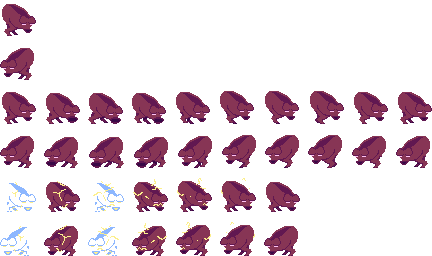
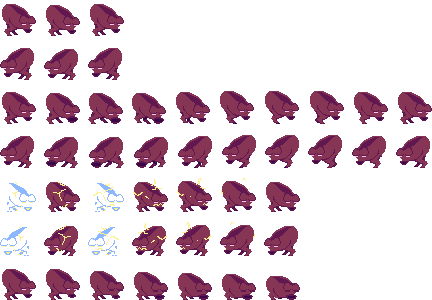
Kill Enemies, Dead state for Tommy, Redid Boost Blast Art

diff --git a/slime.js b/slime.js
@@ -32,7 +32,6 @@ class Slime extends AnimatedEntity {
         this.xDirection = 1;
         this.yVelocity = 1 / PARAMS.SCALE;
         this.maxYVelocity = 6;
-        this.boostSpeed = -6;
         this.boostTimeout = 0.15;
         this.dashSpeed = 5;
         this.dashTimeout = 0.2;
@@ -57,6 +56,8 @@ class Slime extends AnimatedEntity {
         // Powers
         // this.dashbeam = new Ornament("./assets/graphics/characters/dashbeam", "Invisible", this.x + 5 * PARAMS.SCALE, this.y, false);
         this.boostBlast = new Ornament("./assets/graphics/characters/boost", "Invisible", this.x, this.y, false);
+        this.boostBlast.hitbox = new HitBox(-10000, -10000, 2*PARAMS.SCALE, 18*PARAMS.SCALE, 12*PARAMS.SCALE, 35*PARAMS.SCALE);
+
         this.indicatorElectric = new Ornament("./assets/graphics/characters/indicator", "Electric", this.x, this.y, true);
         this.indicatorFire = new Ornament("./assets/graphics/characters/indicator", "Fire", this.x, this.y, true);
         this.indicatorIce = new Ornament("./assets/graphics/item/charge", "Ice", this.x, this.y, true);
@@ -174,7 +175,7 @@ class Slime extends AnimatedEntity {
             if (entity.collideWithPlayer) {
                 let direction = entity.collideWithPlayer();
                 if (!direction) return;
-                this.tileCollisions.push(direction)
+                this.tileCollisions.push(direction);
             }
         });
     }
@@ -504,21 +505,24 @@ class Slime extends AnimatedEntity {
             this.canBoost = false;
             this.canJump = false;
             this.boostBlast.x = this.x;
-            this.boostBlast.y = this.hitbox.bottom;
+            this.boostBlast.y = this.hitbox.bottom - PARAMS.SCALE * 18;
+            this.boostBlast.hitbox.updatePos(this.boostBlast.x, this.boostBlast.y)
             this.xDirection > 0 ? this.boostBlast.swapTag("Default", false) : this.boostBlast.swapTag("DefaultLeft", false);
-            // this.isInvincible = true;
+            this.boostBlast.hitbox.getCollisions().filter(entity => { 
+                return GAME.killableEntities.includes(entity.constructor.name) 
+            }).forEach(killableEntity => {killableEntity.kill()});
         };
         this.states.boosting.behavior = () =>{
             this.xDirection > 0 ? this.tag = "JumpingAir" : this.tag = "JumpingAirLeft";
             this.controlX();
             this.moveY();
-            this.boostBlast.x = this.x;
-            this.boostBlast.y = this.hitbox.bottom; - 2 * PARAMS.SCALE;
+            // this.boostBlast.x = this.x;
+            // this.boostBlast.y = this.hitbox.bottom; - 2 * PARAMS.SCALE;
             if (!CONTROLLER.X && this.charges["Electric"] >= 1) this.canDash = true;
         };
         this.states.boosting.end = () =>{
             this.yVelocity = 0;
-            this.boostBlast.swapTag("Invisible", false);
+            // this.boostBlast.swapTag("Invisible", false);
         };
         this.states.boosting.setTransitions([
             {state: this.states.dashing, predicate: () => { return CONTROLLER.X && this.canDash }},

diff --git a/tabemasu.js b/tabemasu.js
@@ -44,7 +44,7 @@ class Tabemasu extends AnimatedEntity {
      * Function called on every clock tick.
      */
     update() {
-        if (!this.isInFrame(36*PARAMS.SCALE, 36*PARAMS.SCALE) && this.currentState != this.states.stunned) {
+        if (!this.isAlive || (!this.isInFrame(72*PARAMS.SCALE, 36*PARAMS.SCALE) && this.currentState != this.states.stunned)) {
             return;
         }
 
@@ -140,7 +140,7 @@ class Tabemasu extends AnimatedEntity {
      * to spawn and {@link GAME.slime.kill()} the slime
      */
     collideWithPlayer() {
-        if (this.currentState == this.states.stunned) return;
+        if (this.currentState == this.states.stunned || this.currentState == this.states.dead) return;
         if (GAME.slime.isInvincible){
             this.changeState(this.states.stunned);
         } else GAME.slime.kill();
@@ -161,7 +161,7 @@ class Tabemasu extends AnimatedEntity {
      * Kills this entity
      */
     kill() {
-        this.isAlive = false;
+        if (this.currentState == this.states.stunned) super.kill();
     }
 
     ///////////////////
@@ -178,6 +178,7 @@ class Tabemasu extends AnimatedEntity {
             searching: new State("Searching"),
             roaming: new State("Roaming"),
             hunting: new State("Hunting"),
+            dead: new State("Dead"),
         };
 
         // IDLE //
@@ -332,5 +333,10 @@ class Tabemasu extends AnimatedEntity {
             }},
             {state: this.states.falling, predicate: () => { return this.yVelocity > 1 * PARAMS.SCALE }},
         ]);
+        
+        // DEAD //
+        this.states.dead.start = () => {
+            this.swapTag("Dead", false);
+        };
     }
 }

diff --git a/scenemanager.js b/scenemanager.js
@@ -73,7 +73,10 @@ class SceneManager {
             if (this.elapsedFreezeTime >= this.freezeTimer) this.unfreeze();
         } else {
             this.x = Math.round(lerp(this.x, GAME.slime.x + GAME.slime.hitbox.width / 2 - PARAMS.WIDTH/2 + PARAMS.SCALE*56*GAME.slime.momentum, GAME.tickMod/15));
-            this.y = Math.round(lerp(this.y, GAME.slime.y - PARAMS.HEIGHT/2 - 16*PARAMS.SCALE - Math.min(0,PARAMS.SCALE*24*-GAME.slime.yVelocity), GAME.tickMod/15));
+            this.y = GAME.slime.yVelocity < 0 ? 
+                Math.round(lerp(this.y, GAME.slime.y - PARAMS.HEIGHT/2 - 4*PARAMS.SCALE, GAME.tickMod/15)) :
+                Math.round(lerp(this.y, GAME.slime.y - PARAMS.HEIGHT/2 - 16*PARAMS.SCALE - PARAMS.SCALE*24*-GAME.slime.yVelocity, GAME.tickMod/15));
+            // this.y = Math.round(lerp(this.y, GAME.slime.y - PARAMS.HEIGHT/2 - 16*PARAMS.SCALE - Math.min(0,PARAMS.SCALE*24*-GAME.slime.yVelocity), GAME.tickMod/15));
         }
         this.deathScreen.x = this.x - 3*PARAMS.SCALE;
         this.deathScreen.y = this.y - 3*PARAMS.SCALE;
@@ -104,6 +107,7 @@ class SceneManager {
         if (PARAMS.DEBUG) {
             ctx.strokeRect(0,0,PARAMS.WIDTH/2,PARAMS.HEIGHT/2)
             ctx.fillText("CAM: x=" + this.x + " y=" + this.y, 10, 30);
+            ctx.fillText("GAMEPAD BTNS PRESSED: " + GAME.gamepad.buttons.forEach((button, index) => { if (button.pressed) return index}), 10, PARAMS.HEIGHT - 20);
         }
     }
 

diff --git a/batterflea.js b/batterflea.js
@@ -40,7 +40,7 @@ class Batterflea extends AnimatedEntity {
      * Function called on every clock tick.
      */
     update() {
-        // if (!this.isInFrame()) return;
+        if (!this.isInFrame()) return;
         this.hop();
         this.moveY();
 
@@ -62,7 +62,9 @@ class Batterflea extends AnimatedEntity {
      * to spawn and {@link GAME.slime.kill()} the slime
      */
     collideWithPlayer() {
-        if (GAME.slime.isAlive) GAME.slime.kill();
+        if (GAME.slime.isInvincible){
+            this.kill();
+        } else if (GAME.slime.isAlive) GAME.slime.kill();
     }
 
     /**
@@ -109,13 +111,6 @@ class Batterflea extends AnimatedEntity {
             let hangtime = this.rise > 0 ? 0.7 : 1;
             this.rise -= this.gravity * GAME.tickMod * hangtime;
         }
-    }
-
-    /**
-     * Kills this entity
-     */
-    kill() {
-        this.isAlive = false;
     }
 
     /**

diff --git a/animatedentity.js b/animatedentity.js
@@ -64,6 +64,7 @@ class AnimatedEntity {
         this.x = this.spawnX;
         this.y = this.spawnY;
         if (this.hitbox) this.hitbox.updatePos(this.x, this.y);
+        this.isAlive = true;
     }
 
     deccelerate(){
@@ -127,5 +128,10 @@ class AnimatedEntity {
         const h = height ? height : this.hitbox ? this.hitbox.height : 8*PARAMS.SCALE;
         //if ((x > -w && x < PARAMS.WIDTH && y > -h && y < PARAMS.HEIGHT)) console.log(this.constructor.name, "is in frame.");
         return (x > -w && x < PARAMS.WIDTH && y > -h && y < PARAMS.HEIGHT);
+    }
+
+    kill(){
+        this.isAlive = false;
+        if (this.states.dead) this.changeState(this.states.dead);
     }
 }

diff --git a/sentry.js b/sentry.js
@@ -21,8 +21,8 @@ class Sentry extends AnimatedEntity {
 
     collideWithPlayer(){
         if (this.isTriggered) return;
-        GAME.entities.forEach(entity => {
-            if (!entity.states || !entity.isInFrame() || entity.constructor.name != this.targetEntity) return;
+        GAME.collidableEntities.forEach(entity => {
+            if (!entity.isAlive || !entity.states || !entity.isInFrame() || entity.constructor.name != this.targetEntity) return;
             Object.keys(entity.states).forEach(state => {
                 if (entity.states[state].name == this.targetState) entity.changeState(entity.states[state]);
             });

diff --git a/gameengine.js b/gameengine.js
@@ -10,6 +10,7 @@ class GameEngine {
         // Everything that will be updated and drawn each frame
         this.entities = [];
         this.collidableEntities = [];
+        this.killableEntities = ["Batterflea", "Tabemasu", "Magmasquito", "Skiwi"]
 
          //for Gamepad
         this.gamepad = null;
